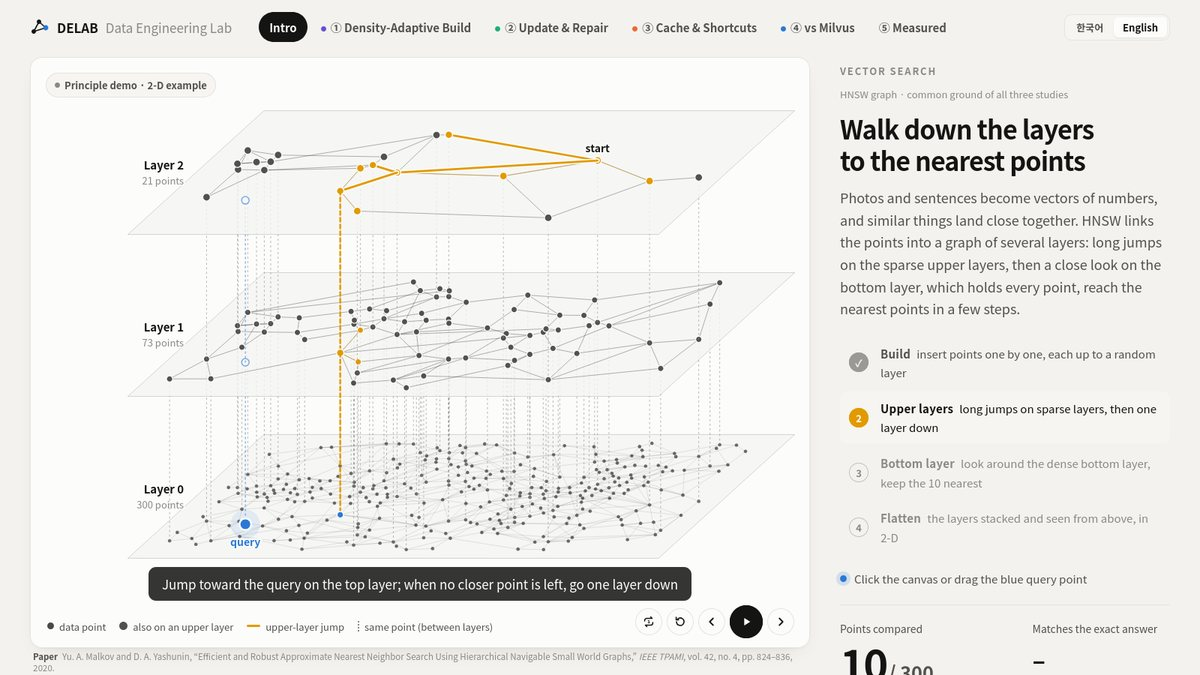
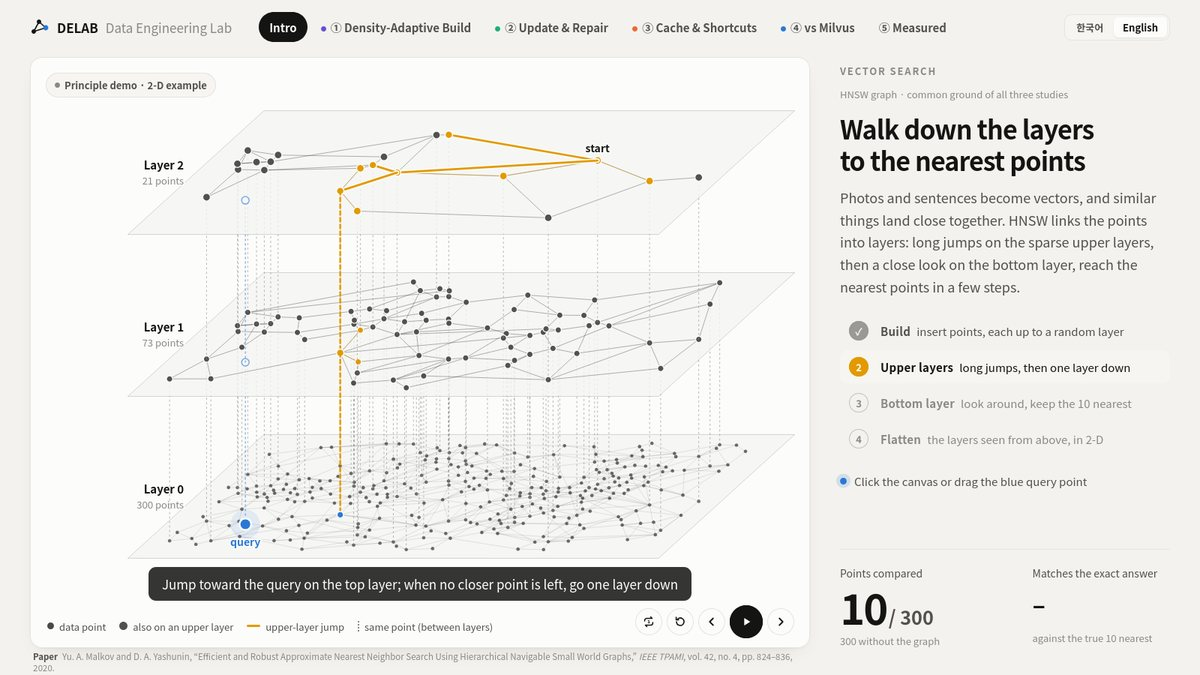
One way into the demo; uncut demo screenshot; demo copy with the English intro fix
Claude-Session: https://claude.ai/code/session_01BiVFNusSTa3qRaRJQ4mAki

diff --git a/index.html b/index.html
@@ -60,7 +60,7 @@
     <figure class="live">
       <span class="tag">Live · nearest-neighbour search</span>
       <canvas id="live-search" aria-label="Animation: a query appears and an HNSW search jumps from the entry point across the upper layers, then walks the bottom layer to the five nearest points"></canvas>
-      <figcaption>An HNSW search: long jumps on the sparse upper layers (amber), then a close look on the bottom layer (blue) to the five nearest points. <a href="demo/?lang=en#intro">See it in the demo →</a></figcaption>
+      <figcaption>An HNSW search: long jumps on the sparse upper layers (amber), then a close look on the bottom layer (blue) to the five nearest points.</figcaption>
     </figure>
   </div>
 </section>
@@ -80,7 +80,7 @@
           <h3>DHNSW: density-adaptive construction</h3>
           <p>Each point's local density sets its own link budget. Crowded regions get more links and sparse ones fewer, and a lower bottom-layer cap trims memory while recall holds.</p>
         </div>
-        <div class="acts"><a href="https://ieeexplore.ieee.org/document/10992903">Paper</a><a href="https://github.com/huijunjin/DHNSW">Code</a><a href="demo/?lang=en#density">Demo</a></div>
+        <div class="acts"><a href="https://ieeexplore.ieee.org/document/10992903">Paper</a><a href="https://github.com/huijunjin/DHNSW">Code</a></div>
       </article>
       <article class="move pro">
         <div class="stage"><span class="eyebrow">Update</span><span class="venue">ICDE 2026</span></div>
@@ -89,7 +89,7 @@
           <h3>PRO-HNSW: proactive repair</h3>
           <p>Deleting and reinserting points breaks paths in the graph. PRO-HNSW clears obsolete links, reconnects cut-off points and adds missing reverse links, so the index stays searchable without a rebuild.</p>
         </div>
-        <div class="acts"><a href="https://delab.yonsei.ac.kr/assets/files/publication/international/conference/Revised_PRO-HNSW%20Proactive%20Repair%20and%20Optimization%20for%20High-Performance%20Dynamic%20HNSW%20Indexes.pdf">Paper</a><a href="https://github.com/huijunjin/PRO-HNSW">Code</a><a href="demo/?lang=en#repair">Demo</a></div>
+        <div class="acts"><a href="https://delab.yonsei.ac.kr/assets/files/publication/international/conference/Revised_PRO-HNSW%20Proactive%20Repair%20and%20Optimization%20for%20High-Performance%20Dynamic%20HNSW%20Indexes.pdf">Paper</a><a href="https://github.com/huijunjin/PRO-HNSW">Code</a></div>
       </article>
       <article class="move camp">
         <div class="stage"><span class="eyebrow">Search</span><span class="venue">PVLDB 2026</span></div>
@@ -98,7 +98,7 @@
           <h3>CAMP-HNSW: cache alignment and shortcuts</h3>
           <p>Queries from another modality strand a search on one side of the data. CAMP-HNSW packs nearby vectors together in memory and adds shortcuts, mined from past queries, where searches get lost.</p>
         </div>
-        <div class="acts"><a href="https://github.com/huijunjin/CAMP-HNSW">Code</a><a href="demo/?lang=en#shortcut">Demo</a></div>
+        <div class="acts"><a href="https://github.com/huijunjin/CAMP-HNSW">Code</a></div>
       </article>
     </div>
     <div class="together">
@@ -107,7 +107,6 @@
         <h3>All three in one index, inside Milvus</h3>
         <p>The three techniques are combined into one HNSW, built into Knowhere, the vector search engine of Milvus, and measured over the index's full life cycle against Milvus's default HNSW.</p>
       </div>
-      <div class="acts"><a href="demo/?lang=en#versus">Side by side</a><a href="demo/?lang=en#perf">Measured results</a></div>
     </div>
   </div>
 </section>
@@ -126,12 +125,12 @@
           <div class="links"><a class="chip primary" href="demo/?lang=en#intro">Open the demo</a></div>
         </div>
         <ol class="scenes">
-          <li><a href="demo/?lang=en#intro"><span class="n">00</span><span><b>How HNSW searches</b>: layers, build, search</span></a></li>
-          <li><a href="demo/?lang=en#density"><span class="n">01</span><span><b>Density-adaptive build</b>: DHNSW</span></a></li>
-          <li><a href="demo/?lang=en#repair"><span class="n">02</span><span><b>Update and repair</b>: PRO-HNSW</span></a></li>
-          <li><a href="demo/?lang=en#shortcut"><span class="n">03</span><span><b>Cache alignment and shortcuts</b>: CAMP-HNSW</span></a></li>
-          <li><a href="demo/?lang=en#versus"><span class="n">04</span><span><b>Side by side with Milvus</b></span></a></li>
-          <li><a href="demo/?lang=en#perf"><span class="n">05</span><span><b>Measured in Milvus</b></span></a></li>
+          <li><span class="n">00</span><span><b>How HNSW searches</b>: layers, build, search</span></li>
+          <li><span class="n">01</span><span><b>Density-adaptive build</b>: DHNSW</span></li>
+          <li><span class="n">02</span><span><b>Update and repair</b>: PRO-HNSW</span></li>
+          <li><span class="n">03</span><span><b>Cache alignment and shortcuts</b>: CAMP-HNSW</span></li>
+          <li><span class="n">04</span><span><b>Side by side with Milvus</b></span></li>
+          <li><span class="n">05</span><span><b>Measured in Milvus</b></span></li>
         </ol>
       </div>
     </div>
@@ -151,7 +150,7 @@
           <div class="title">CAMP-HNSW: Hardware-Topological Co-Design for OOD-Robust ANNS via Cache Alignment and Targeted Rewiring</div>
           <div class="authors"><span class="me">Huijun Jin</span>, Sanghyun Park</div>
           <div class="venue-full">Proceedings of the VLDB Endowment, 20(2):438–451, 2026. To be presented at VLDB 2027, Athens.</div>
-          <div class="acts"><a href="https://github.com/huijunjin/CAMP-HNSW">Code</a><a href="demo/?lang=en#shortcut">Demo</a></div>
+          <div class="acts"><a href="https://github.com/huijunjin/CAMP-HNSW">Code</a></div>
         </div>
       </li>
       <li class="pub pro">
@@ -160,7 +159,7 @@
           <div class="title">PRO-HNSW: Proactive Repair and Optimization for High-Performance Dynamic HNSW Indexes</div>
           <div class="authors"><span class="me">Huijun Jin</span>, Jieun Lee, Shengmin Piao, Sangmin Seo, Sanghyun Park</div>
           <div class="venue-full">IEEE International Conference on Data Engineering, 2026.</div>
-          <div class="acts"><a href="https://delab.yonsei.ac.kr/assets/files/publication/international/conference/Revised_PRO-HNSW%20Proactive%20Repair%20and%20Optimization%20for%20High-Performance%20Dynamic%20HNSW%20Indexes.pdf">PDF</a><a href="https://github.com/huijunjin/PRO-HNSW">Code</a><a href="demo/?lang=en#repair">Demo</a></div>
+          <div class="acts"><a href="https://delab.yonsei.ac.kr/assets/files/publication/international/conference/Revised_PRO-HNSW%20Proactive%20Repair%20and%20Optimization%20for%20High-Performance%20Dynamic%20HNSW%20Indexes.pdf">PDF</a><a href="https://github.com/huijunjin/PRO-HNSW">Code</a></div>
         </div>
       </li>
       <li class="pub">
@@ -187,7 +186,7 @@
           <div class="title">Efficient Approximate Nearest Neighbor Search via Data-Adaptive Parameter Adjustment in Hierarchical Navigable Small Graphs</div>
           <div class="authors"><span class="me">Huijun Jin</span>, Jieun Lee, Shengmin Piao, Sangmin Seo, Sein Kwon, Sanghyun Park</div>
           <div class="venue-full">Design, Automation &amp; Test in Europe Conference, 2025.</div>
-          <div class="acts"><a href="https://ieeexplore.ieee.org/document/10992903">Paper</a><a href="https://github.com/huijunjin/DHNSW">Code</a><a href="demo/?lang=en#density">Demo</a></div>
+          <div class="acts"><a href="https://ieeexplore.ieee.org/document/10992903">Paper</a><a href="https://github.com/huijunjin/DHNSW">Code</a></div>
         </div>
       </li>
       <li class="pub">

diff --git a/assets/site.css b/assets/site.css
@@ -150,7 +150,7 @@ section { padding-block: 44px; }
 .acts a { text-decoration: none; color: var(--ink-2); display: inline-flex; align-items: center; gap: 4px; }
 .acts a:hover { color: var(--c, var(--accent)); }
 .acts a::after { content: "→"; font-size: 0.85em; opacity: 0.6; }
-.together { margin-top: 16px; display: grid; grid-template-columns: minmax(0, 1fr) auto; gap: 16px 28px; align-items: center; background: var(--surface-2); border-radius: var(--r); padding: 20px 22px; }
+.together { margin-top: 16px; display: grid; grid-template-columns: minmax(0, 1fr); gap: 16px 28px; align-items: center; background: var(--surface-2); border-radius: var(--r); padding: 20px 22px; }
 .together h3 { font-size: var(--step-1); margin-bottom: 4px; }
 .together p { color: var(--ink-2); font-size: 0.95rem; }
 .together .dots { display: flex; gap: 6px; margin-bottom: 10px; }
@@ -166,8 +166,7 @@ section { padding-block: 44px; }
 .demo h2 { font-size: var(--step-2); }
 .demo p { color: var(--ink-2); }
 .scenes { list-style: none; margin: 0; padding: 0; display: grid; gap: 2px; align-content: start; }
-.scenes a { display: grid; grid-template-columns: 22px minmax(0, 1fr); gap: 10px; align-items: baseline; text-decoration: none; padding: 7px 8px; border-radius: 8px; color: var(--ink-2); font-size: 0.93rem; }
-.scenes a:hover { background: var(--surface-2); color: var(--ink); }
+.scenes li { display: grid; grid-template-columns: 22px minmax(0, 1fr); gap: 10px; align-items: baseline; padding: 6px 0; color: var(--ink-2); font-size: 0.93rem; }
 .scenes .n { font: 500 0.78rem/1 var(--mono); color: var(--ink-3); }
 .scenes b { color: var(--ink); font-weight: 500; }
 @media (max-width: 760px) { .demo .body { grid-template-columns: minmax(0, 1fr); padding: 22px 20px 24px; } }

diff --git a/demo/index.html b/demo/index.html
@@ -629,10 +629,10 @@ window.STRINGS.en = {
     kicker: 'Vector Search',
     meta: 'HNSW graph · common ground of all three studies',
     title: 'Walk down the layers<br>to the nearest points',
-    lead: 'Photos and sentences become vectors of numbers, and similar things land close together. HNSW links the points into a graph of several layers: long jumps on the sparse upper layers, then a close look on the bottom layer, which holds every point, reach the nearest points in a few steps.',
+    lead: 'Photos and sentences become vectors, and similar things land close together. HNSW links the points into layers: long jumps on the sparse upper layers, then a close look on the bottom layer, reach the nearest points in a few steps.',
     hint: 'Click the canvas or drag the blue query point',
-    steps: [['Build', 'insert points one by one, each up to a random layer'], ['Upper layers', 'long jumps on sparse layers, then one layer down'],
-            ['Bottom layer', k => `look around the dense bottom layer, keep the ${k} nearest`], ['Flatten', 'the layers stacked and seen from above, in 2-D']],
+    steps: [['Build', 'insert points, each up to a random layer'], ['Upper layers', 'long jumps, then one layer down'],
+            ['Bottom layer', k => `look around, keep the ${k} nearest`], ['Flatten', 'the layers seen from above, in 2-D']],
     layer: l => `Layer ${l}`,
     layerNote: n => `${n} points`,
     legend: { point: 'data point', upper: 'also on an upper layer', stack: 'same point (between layers)', jump: 'upper-layer jump', seen: 'compared', walk: 'path taken', found: 'neighbour found' },
